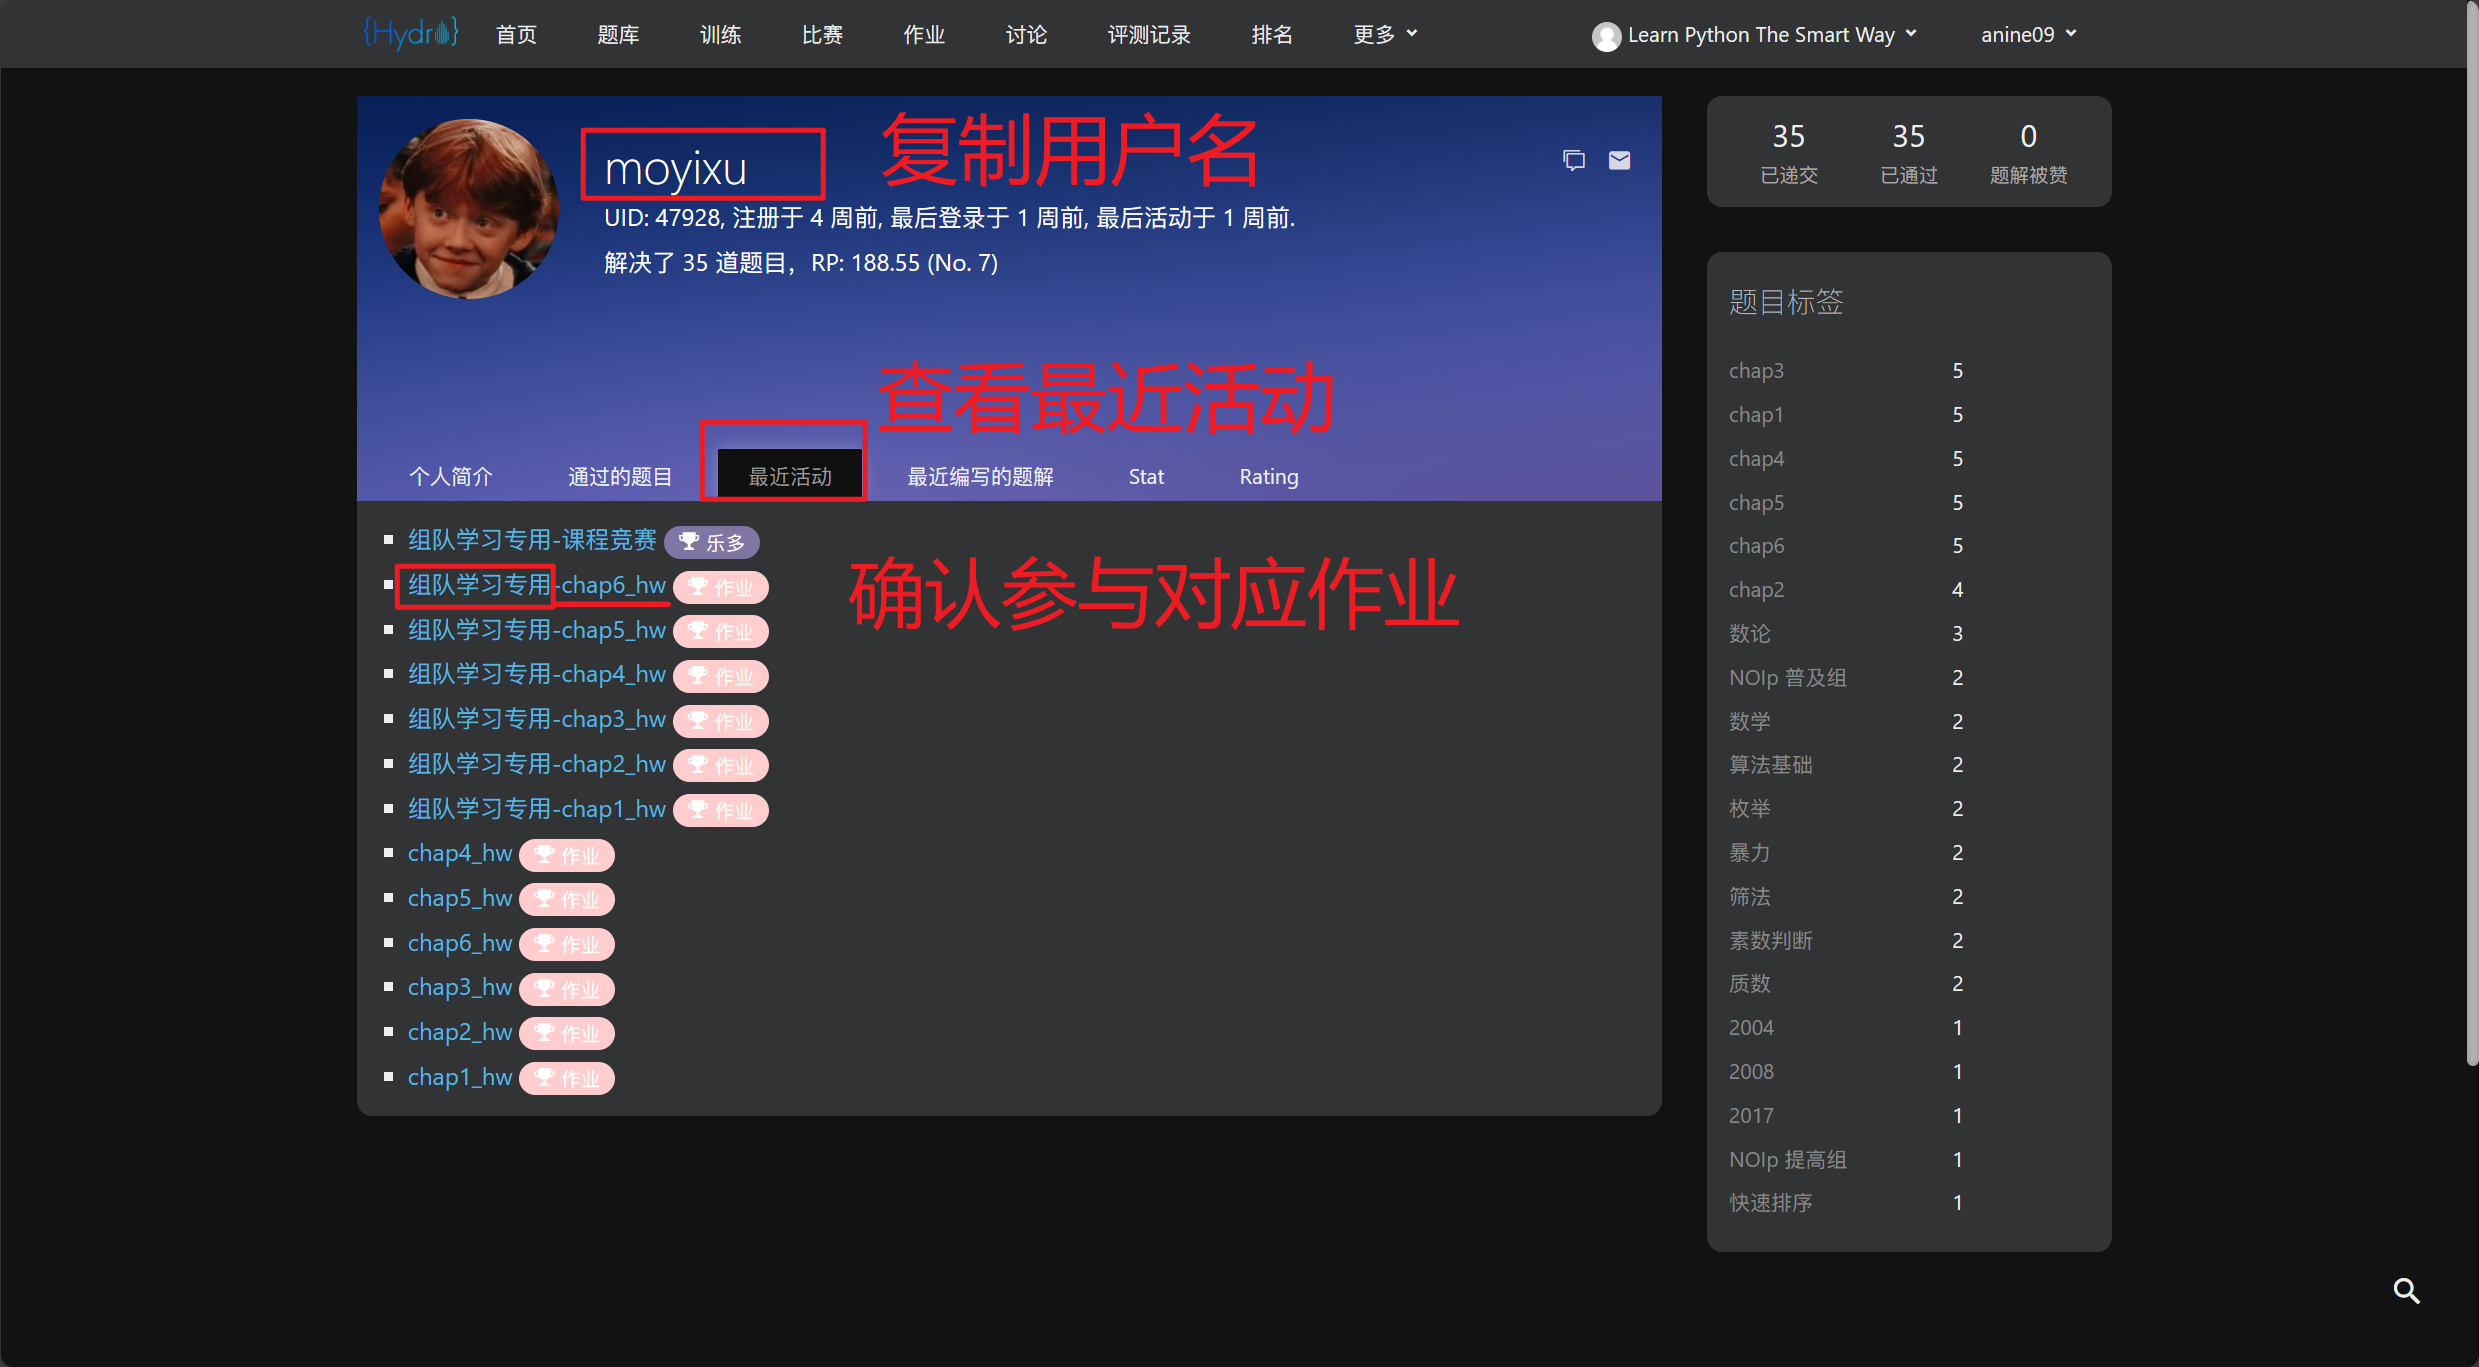
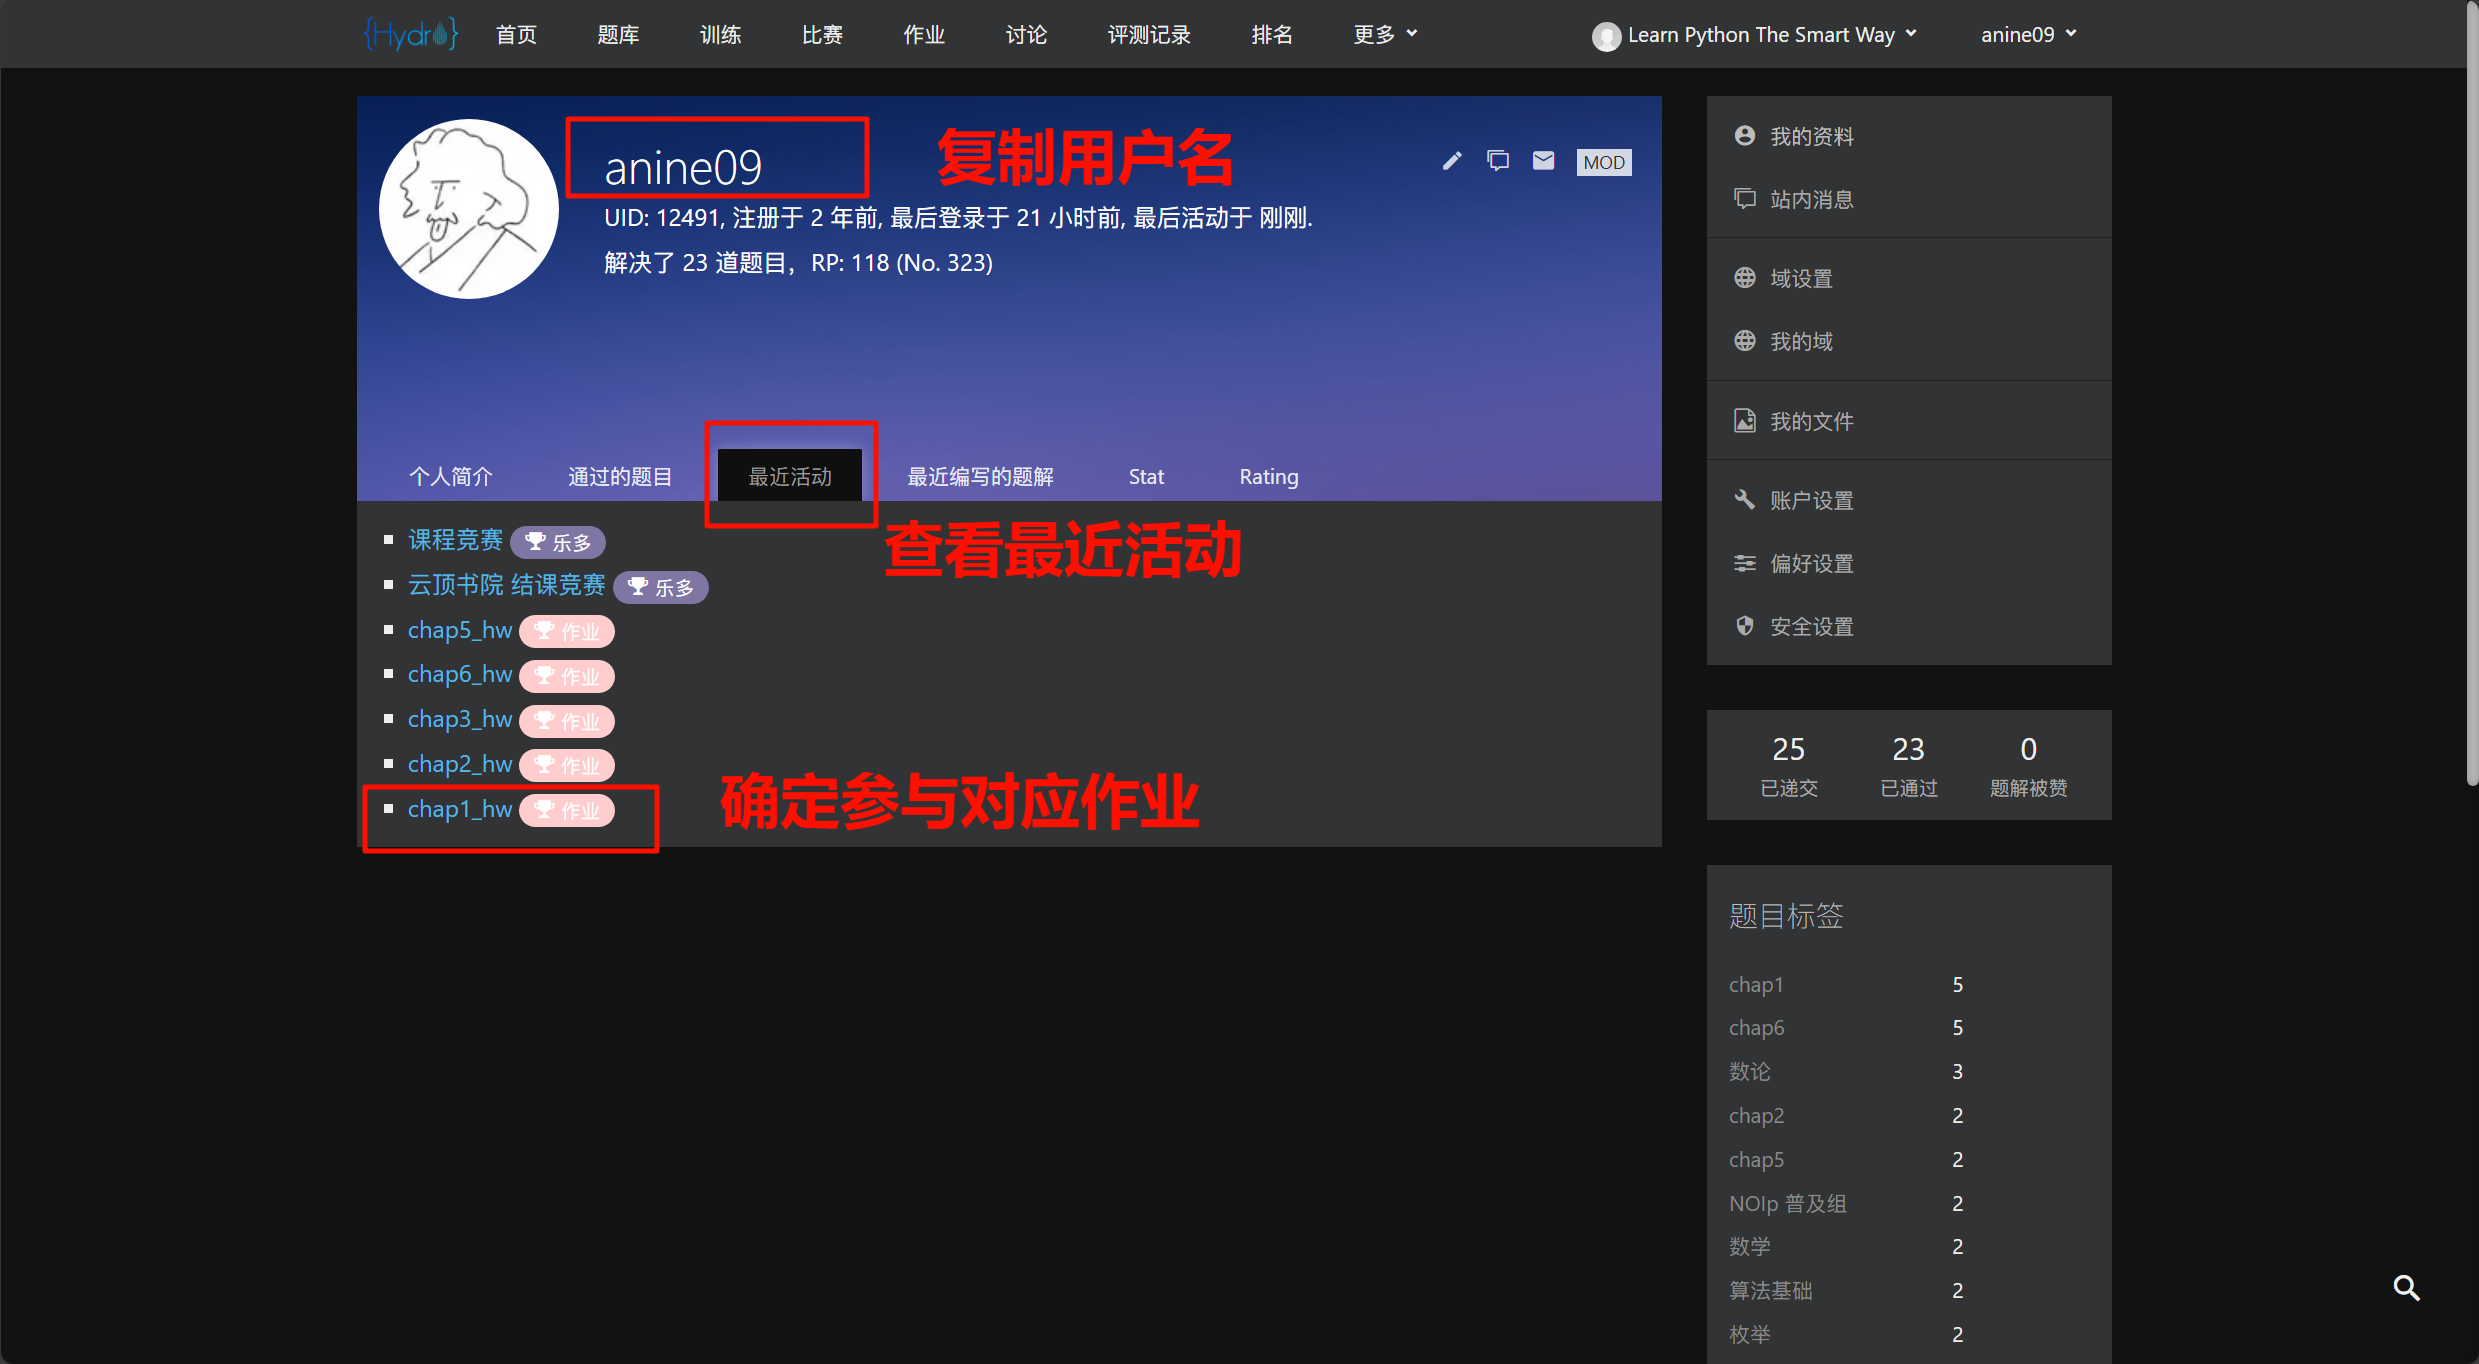
更新组队学习作业规则

diff --git a/docs/Schedule/team_learning.md b/docs/Schedule/team_learning.md
@@ -3,27 +3,15 @@
 ## 学习者规则
 
 - 无意违反任何规则，在合理范围内都有补救机会，如果有需要请及时联系助教。
-
 - 课程主页包含绝大部分你所需要的内容，在询问所需资料之前请先探索课程主页。
-
 - ==请保证你思考过问题，并确认没有遗留细节时再提问，任何提问必须符合提问规则，这是本课程的强制要求。==
-
 - 除非涉及隐私问题，否则禁止私聊助教。
-
 - ”先使用搜索引擎，找不到再提问“是每一名合格学习者的必备素养。
-
 - 有问题也可以先问问 AI，例如文心一言、ChatGPT、New Bing、Claude 等，AI 有能力大部分简单问题解决。
-
 - ==由于本课程实行滚动淘汰制，所以建议你将作业系统用户名和当前微信昵称保持一致，如果你不希望这样，请在作业系统个人简介里说明当前微信昵称，或者发邮件向教学团队说明，否则可能导致被错误踢出学习群。==
-
 - ==一旦我们无法检测到你认领编程作业，你就会面临被定时清退出群的风险，请保证助教知道你的**作业系统昵称所对应的微信名**。==
-
 - 如果被错误踢出群，请发送邮件向教学团队申诉。
-
-- 组队学习作业标题以”组队学习专用“开头，每次作业链接会由助教在群公告内提供，如果做成常规作业（即无组队学习标识的作业），视为无效。
-
 - 我们不认为不写代码能学好 Python，无特殊情况时，必须至少完成 3 道编程基础题且都为 100 分才能获得作业评分，仅有笔记链接时，作业分判 0。
-
 - **《Task 01：课程简介、安装 Installation》 没有编程作业，提交笔记链接即可。**
 
 !!! info "评分时只参考打卡链接，具体规则如下"
@@ -45,12 +33,12 @@
 - ==如果问题不符合提问规则，助教可以不予理会，或者引导其按照正确格式提问，由助教自行定夺。==
 - 未完成打卡同学需要在下次打卡前清退出群，**如果无法定位微信昵称，直接清退。**
 - 学习笔记只判断是否优秀，由助教自行定夺。
-!!! info "编程作业评分流程"
-    1. 点击学习者提供的个人主页链接，**复制其用户名**，点击“最近活动”，查看是否有对应组队学习作业的活动（不包含”组队学习专用“字样的活动无效）。
-    ![批改作业步骤-1](../images/team_learning/批改作业步骤-1.png)
-    2. 在群公告中打开对应作业，查看“成绩表”，在成绩表中搜索用户名，即可看到作业完成详情，**100 分才算完成当前作业（课程竞赛除外）**。
-    ![批改作业步骤-2](../images/team_learning/批改作业步骤-2.png)
-    ![批改作业步骤-3](../images/team_learning/批改作业步骤-3.png)
+  !!! info "编程作业评分流程"
+  1. 点击学习者提供的个人主页链接，**复制用户名**，点击“最近活动”，查看是否有对应作业的活动。
+     ![批改作业步骤-1](../images/team_learning/批改作业步骤-1.png)
+  2. 打开对应作业，查看“成绩表”，在成绩表中搜索用户名，即可看到作业完成详情，**100 分才算完成当前作业（课程竞赛除外）**。
+     ![批改作业步骤-2](../images/team_learning/批改作业步骤-2.png)
+     ![批改作业步骤-3](../images/team_learning/批改作业步骤-3.png)
 
 !!! info "作业评分标准"
     - 水卡：0 分
